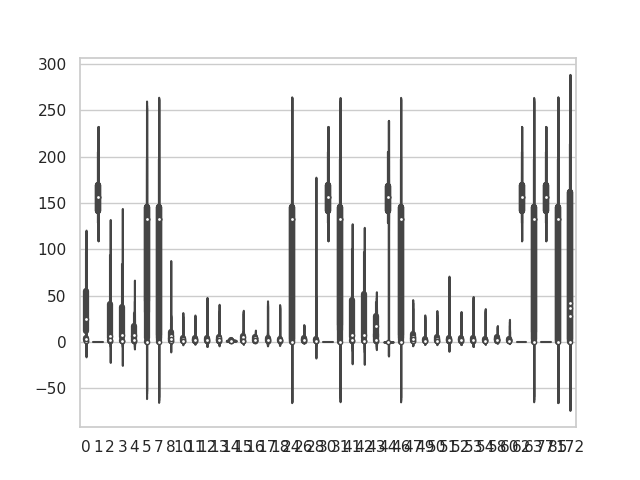
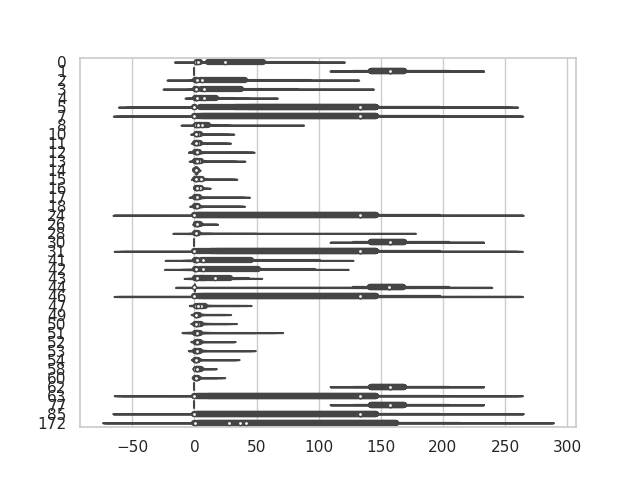
Made plots horizontal..

Changed region(s): [[0.0625, 0.125, 0.9062, 0.9688], [0.6875, 0.3125, 0.7188, 0.3438], [0.1875, 0.125, 0.2188, 0.1562]]

diff --git a/SynthSeg/dcan/paper/create_plots.py b/SynthSeg/dcan/paper/create_plots.py
@@ -9,10 +9,10 @@ def create_violin_plots(results_dir, measures):
     # https://mode.com/blog/violin-plot-examples/
     for measure in measures:
         data_file_path = os.path.join(results_dir, f'{measure}.csv')
-        df = pd.read_csv(data_file_path, index_col='subject')
+        df = pd.read_csv(data_file_path)
         cols = df.columns.tolist()
         cols = cols[:1] + [str(col) for col in sorted([int(col) for col in cols[1:]])]
         df = df[cols]
         sns.set(style='whitegrid')
-        sns.violinplot(data=df)
+        sns.violinplot(data=df, orient='h')
         plt.savefig(f'../../../img/paper/{measure}.png')
